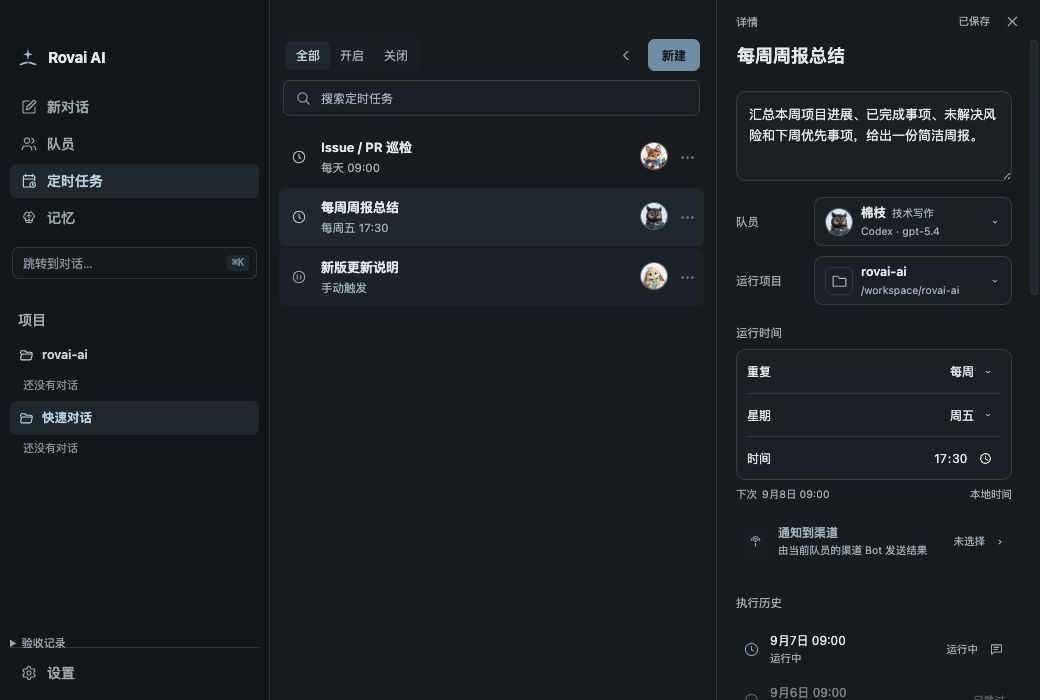
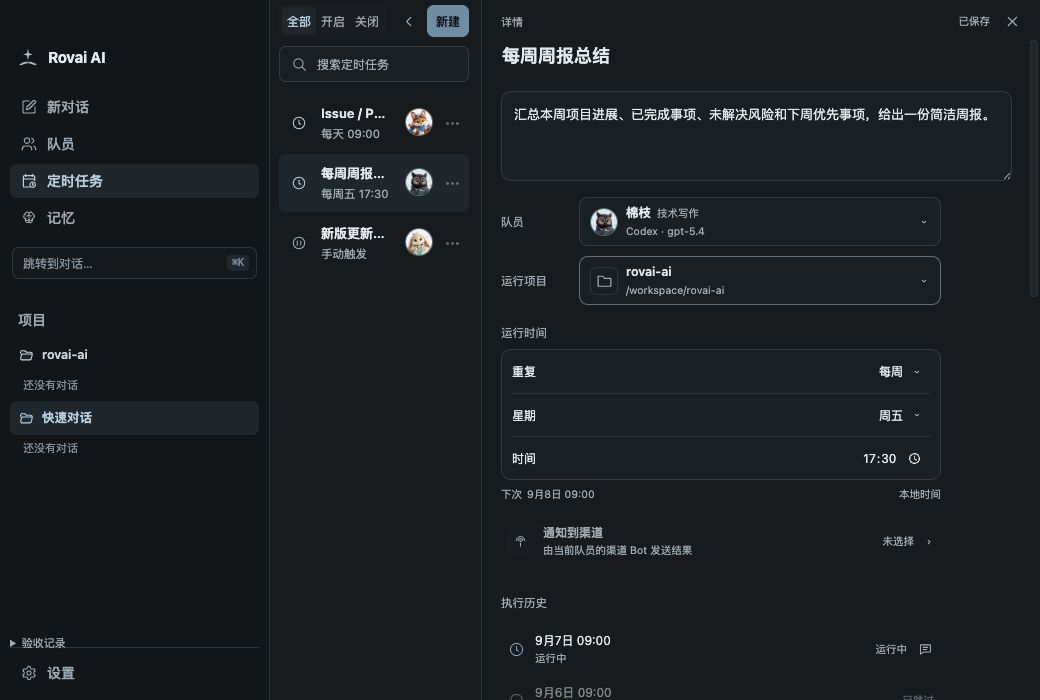
fix(desktop): compact automation list and top controls

diff --git a/apps/desktop/src/renderer/src/AutomationWorkspace.tsx b/apps/desktop/src/renderer/src/AutomationWorkspace.tsx
@@ -12,7 +12,7 @@ import { MemberAvatar } from './MemberAvatar'
 import { AutomationEditor } from './AutomationEditor'
 import { AutomationGlyph, AutomationTemplates } from './AutomationControls'
 import {
-  AutomationCommandError, automationFromResult, automationListWidth, defaultDraft,
+  AUTOMATION_MIN_LIST_WIDTH, AutomationCommandError, automationFromResult, automationListWidth, defaultDraft,
   draftFingerprint, draftFromAutomation, filterAutomations, scheduleLabel, templates,
   type AutomationDraft, type AutomationFilter, type AutomationIssue, type SaveState, type TemplateId
 } from './automation-workspace-model'
@@ -53,7 +53,7 @@ export function AutomationWorkspace({
   const [deleteArmed, setDeleteArmed] = useState<string | null>(null)
   const [filter, setFilter] = useState<AutomationFilter>('all')
   const [query, setQuery] = useState('')
-  const [listWidth, setListWidth] = useState(560)
+  const [listWidth, setListWidth] = useState(AUTOMATION_MIN_LIST_WIDTH)
   const [editorClosed, setEditorClosed] = useState(false)
   const [availableWidth, setAvailableWidth] = useState(1100)
   const splitRef = useRef<HTMLDivElement>(null)
@@ -522,17 +522,17 @@ export function AutomationWorkspace({
           </section>}
         </aside>
         {!overview && <>
-          <div className="automation-splitter" role="separator" tabIndex={0} aria-label="调整任务列表宽度" aria-orientation="vertical" aria-valuemin={208} aria-valuemax={Math.max(208, availableWidth - 7)} aria-valuenow={editorClosed ? Math.max(208, availableWidth - 7) : width} aria-valuetext={editorClosed ? '详情已收起，向左调整可重新打开' : `任务列表宽度 ${width} 像素`} title={editorClosed ? '向左拖动打开任务页' : '拖动调整宽度，拖到最右侧收起详情'}
+          <div className="automation-splitter" role="separator" tabIndex={0} aria-label="调整任务列表宽度" aria-orientation="vertical" aria-valuemin={AUTOMATION_MIN_LIST_WIDTH} aria-valuemax={Math.max(AUTOMATION_MIN_LIST_WIDTH, availableWidth - 7)} aria-valuenow={editorClosed ? Math.max(AUTOMATION_MIN_LIST_WIDTH, availableWidth - 7) : width} aria-valuetext={editorClosed ? '详情已收起，向左调整可重新打开' : `任务列表宽度 ${width} 像素`} title={editorClosed ? '向左拖动打开任务页' : '拖动调整宽度，拖到最右侧收起详情'}
             onPointerDown={(event) => { if (event.button !== 0) return; dragRef.current = { pointerId: event.pointerId, x: event.clientX, width: editorClosed ? availableWidth - 7 : width }; event.currentTarget.setPointerCapture(event.pointerId) }}
             onPointerMove={(event) => { const drag = dragRef.current; if (drag?.pointerId === event.pointerId) resize(drag.width + event.clientX - drag.x) }}
             onPointerUp={(event) => { dragRef.current = null; if (event.currentTarget.hasPointerCapture(event.pointerId)) event.currentTarget.releasePointerCapture(event.pointerId) }}
             onPointerCancel={() => { dragRef.current = null }} onLostPointerCapture={() => { dragRef.current = null }}
-            onDoubleClick={() => { setListWidth(560); setEditorClosed(false) }}
+            onDoubleClick={() => { setListWidth(AUTOMATION_MIN_LIST_WIDTH); setEditorClosed(false) }}
             onKeyDown={(event) => {
               if (event.key === 'ArrowLeft' || event.key === 'ArrowRight') { event.preventDefault(); resize((editorClosed ? availableWidth - 327 : width) + (event.key === 'ArrowRight' ? 24 : -24)) }
-              else if (event.key === 'Home') { event.preventDefault(); setListWidth(208); setEditorClosed(false) }
+              else if (event.key === 'Home') { event.preventDefault(); setListWidth(AUTOMATION_MIN_LIST_WIDTH); setEditorClosed(false) }
               else if (event.key === 'End') { event.preventDefault(); void closeEditor() }
-              else if (event.key === 'Enter') { event.preventDefault(); setEditorClosed(false); setListWidth(560) }
+              else if (event.key === 'Enter') { event.preventDefault(); setEditorClosed(false); setListWidth(AUTOMATION_MIN_LIST_WIDTH) }
             }}><span /></div>
           <section className="automation-editor" aria-label={selectedId === 'new' ? '新建定时任务' : '定时任务详情'} hidden={editorClosed}>
             <header className="automation-editor-toolbar"><span>{selectedId === 'new' ? '新建' : '详情'}</span><small role="status">{selected ? saveLabel : ''}</small><button type="button" className="automation-icon-button" aria-label="返回定时任务总览" onClick={() => void showOverview()}><AutomationGlyph name="close" /></button></header>

diff --git a/apps/desktop/src/renderer/src/styles.css b/apps/desktop/src/renderer/src/styles.css
@@ -8316,9 +8316,9 @@ button.attachment-open:disabled { cursor: wait; opacity: .76; }
 .automation-workspace button:disabled { cursor: default; opacity: .5; }
 .automation-workspace .primary-button { min-height: 32px; padding: 6px 13px; font-size: 12px; font-weight: 550; }
 .automation-glyph { display: block; width: 17px; height: 17px; flex: 0 0 auto; fill: none; stroke: currentColor; stroke-width: 1.5; stroke-linecap: round; stroke-linejoin: round; }
-.automation-split { display: grid; min-width: 0; min-height: 0; flex: 1; grid-template-columns: var(--automation-list-width) 7px minmax(0, 1fr); overflow: hidden; }
+.automation-split { --automation-list-width: 208px; display: grid; min-width: 0; min-height: 0; flex: 1; grid-template-columns: var(--automation-list-width) 7px minmax(0, 1fr); overflow: hidden; }
 .automation-workspace.overview .automation-split { grid-template-columns: minmax(0, 1fr); }
-.automation-list { display: flex; min-width: 0; min-height: 0; flex-direction: column; padding: 38px 9px 20px; overflow-y: auto; }
+.automation-list { display: flex; min-width: 0; min-height: 0; flex-direction: column; padding: 4px 9px 20px; overflow-y: auto; }
 .automation-workspace.overview .automation-list { padding: 42px 28px 30px; }
 .automation-page-header { display: flex; flex: 0 0 auto; align-items: flex-end; justify-content: space-between; gap: 20px; margin-bottom: 34px; }
 .automation-page-header h1 { margin: 0; font-size: 26px; font-weight: 650; line-height: 1.2; letter-spacing: -.025em; }
@@ -8330,6 +8330,10 @@ button.attachment-open:disabled { cursor: wait; opacity: .76; }
 .automation-filter-tabs button:hover { color: var(--ink); background: var(--surface-hover); }
 .automation-filter-tabs button[aria-pressed="true"] { color: var(--brand-ink); background: var(--surface-selected); }
 .automation-list-navigation { display: flex; justify-content: flex-end; align-items: center; gap: 8px; }
+.automation-workspace.detail .automation-list-controls { column-gap: 8px; padding-inline: 0; }
+.automation-workspace.detail .automation-filter-tabs button { padding-inline: 5px; }
+.automation-workspace.detail .automation-list-navigation { gap: 4px; }
+.automation-workspace.detail .automation-list-navigation .primary-button { padding-inline: 8px; }
 .automation-search { display: flex; min-width: 0; min-height: 36px; grid-column: 1 / -1; align-items: center; gap: 9px; padding: 0 11px; border: 1px solid var(--dialog-field-line); border-radius: 7px; color: var(--muted); background: var(--input); }
 .automation-search:focus-within { outline: 2px solid var(--focus); outline-offset: 2px; }
 .automation-search input { width: 100%; min-width: 0; height: 34px; padding: 0; border: 0; outline: none; color: var(--ink); background: transparent; font-size: 12px; }

diff --git a/apps/desktop/src/renderer/src/automation-workspace-model.ts b/apps/desktop/src/renderer/src/automation-workspace-model.ts
@@ -185,6 +185,8 @@ export function filterAutomations(automations: AutomationView[], filter: Automat
     && (!needle || [item.name, item.prompt, scheduleLabel(item.schedule)].some((value) => value.toLocaleLowerCase().includes(needle))))
 }
 
+export const AUTOMATION_MIN_LIST_WIDTH = 208
+
 export function automationListWidth(requested: number, available: number): number {
-  return Math.round(Math.max(208, Math.min(requested, available - 327)))
+  return Math.round(Math.max(AUTOMATION_MIN_LIST_WIDTH, Math.min(requested, available - 327)))
 }

diff --git a/scripts/fixtures/automation-workspace/README.md b/scripts/fixtures/automation-workspace/README.md
@@ -21,8 +21,11 @@ pnpm exec tsc -p scripts/fixtures/automation-workspace/tsconfig.json
 - 编辑后立即返回总览会先保存；失败保留草稿，重试成功；冲突阻止离开，“保留草稿并重试”使用新版本保存。
 - 历史从 20 条展开到 24 条，无重复分页按钮；无 Camp 的跳过行禁用，失败运行可以打开执行对话。
 - 分隔条 End 收起 / Enter 恢复，最小窗口 1040×700 与 720×460（200% 等效布局）无横向溢出。
+- 按后续反馈把列表初始宽度设为最小 208px：方向键放宽后双击回到 208px；顶部筛选、返回与新建在同一行完整可见，
+  按钮距页面顶部 5–7px，没有预留空白标题行。Day 1280×720 与 Night 1040×700 截图已更新。
 - Day/Night 使用相同产品结构与语义颜色。下方是渲染截图，不代表原生 App 或真实模型执行已经验收。
 
 ![Day 总览](screenshots/day-overview.png)
 ![Day 首次空列表](screenshots/day-empty.png)
+![Day 最小列表宽度详情](screenshots/day-detail.png)
 ![Night 最小窗口详情](screenshots/night-detail.png)

diff --git a/docs/ui/components/automation-workspace.md b/docs/ui/components/automation-workspace.md
@@ -13,7 +13,8 @@ last_updated: 2026-09-07
 每次进入工作区首先显示全宽总览：标题与“新建”、全部/开启/关闭筛选、搜索、任务列表，以及三个模板入口。
 读取到已有定义也不自动选择首项；空列表保留新建与模板，不同时铺开一个空编辑器。加载失败和没有匹配结果各有独立提示。
 
-选择任务或开始创建后才进入列表与详情分栏。列表默认 560px，并根据可用宽度为编辑器保留至少 320px；分隔条支持
+选择任务或开始创建后才进入列表与详情分栏。列表初始宽度取最小值 208px，筛选与新建操作贴近顶部，不预留空白标题行；
+操作组在最小宽度下保持同一行。根据可用宽度为编辑器保留至少 320px；分隔条支持
 拖动、左右方向键、Home 最小宽度、End 收起详情、Enter/双击恢复默认宽度。拖到最右侧收起详情，向左拖动可重新展开。
 小于等于 820px 的窗口一次显示列表或编辑器，返回总览入口仍可用。列表与编辑内容各自滚动。
 

diff --git a/docs/versions/v1.54/implementation-plan.md b/docs/versions/v1.54/implementation-plan.md
@@ -48,6 +48,8 @@ last_updated: 2026-09-07
 - `pnpm typecheck`、`pnpm exec vitest run apps/desktop/src/renderer/src/App.test.ts`：166 项通过，
   `pnpm build:desktop` 与隔离 Renderer 场景的单独 TypeScript 检查。
 - 文档治理三项门禁与 diff hygiene；真实输入、截图和证据边界记录在隔离场景 README。
+- 后续用户校准：列表初始及恢复默认宽度改为最小 208px，筛选/新建移至顶部；更新双主题截图。
+  补上运行时列表宽度的 CSS 默认声明，修复 PR 首轮 CI 的未声明变量失败，32 项主题回归通过。
 
 ## 完成条件
 
